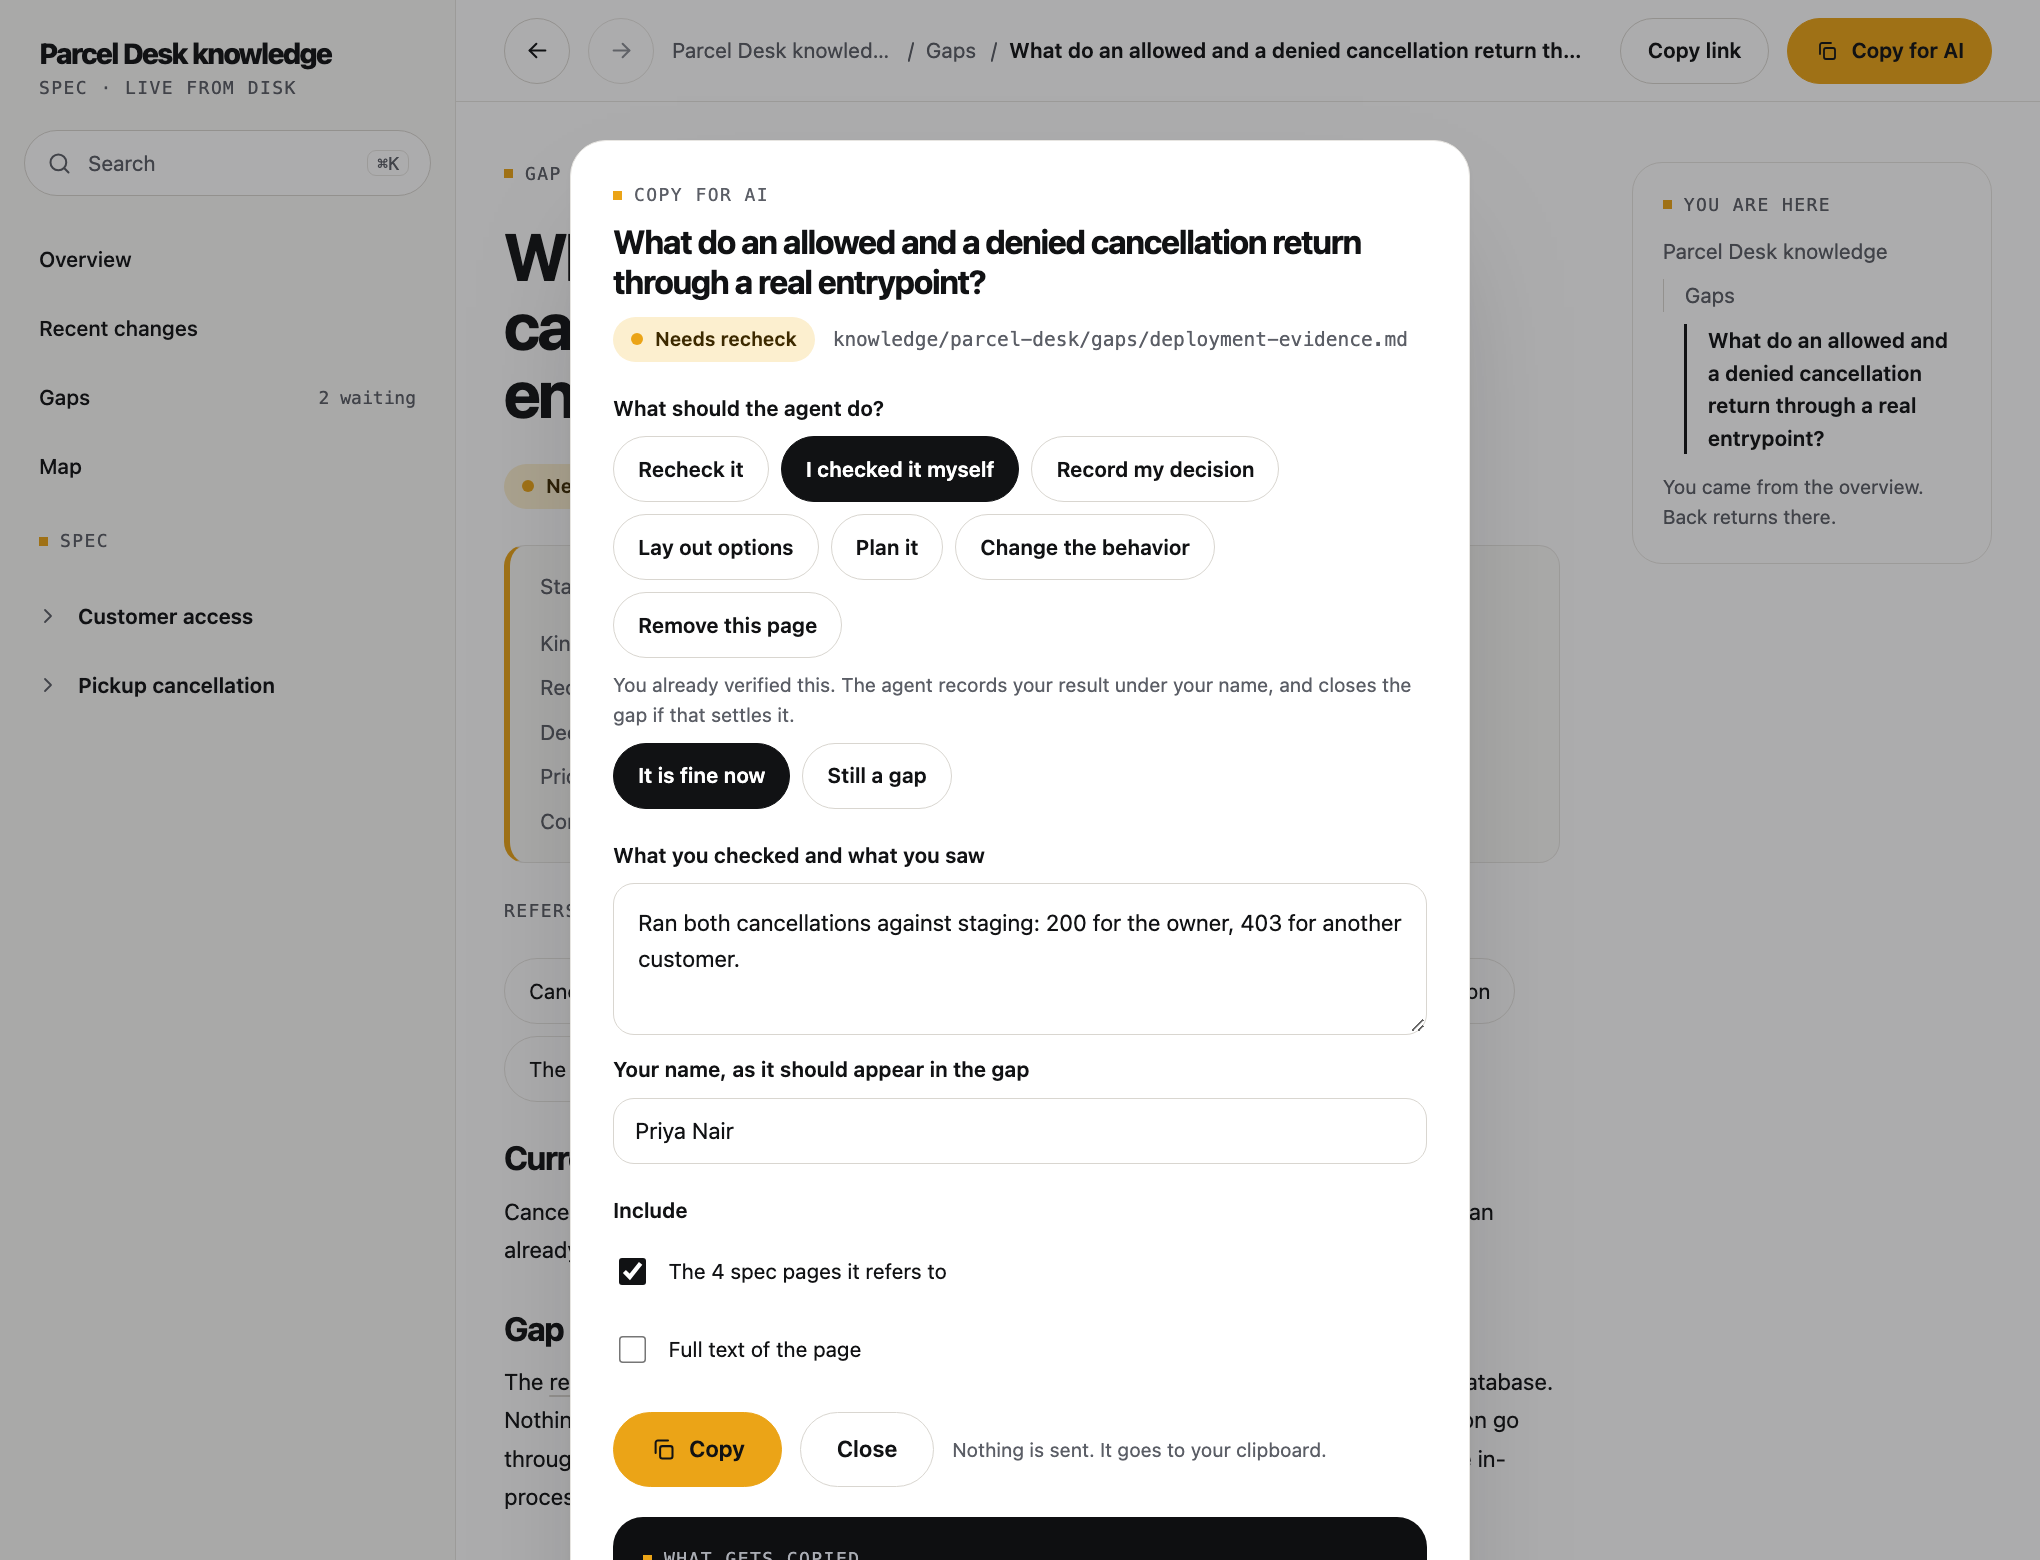
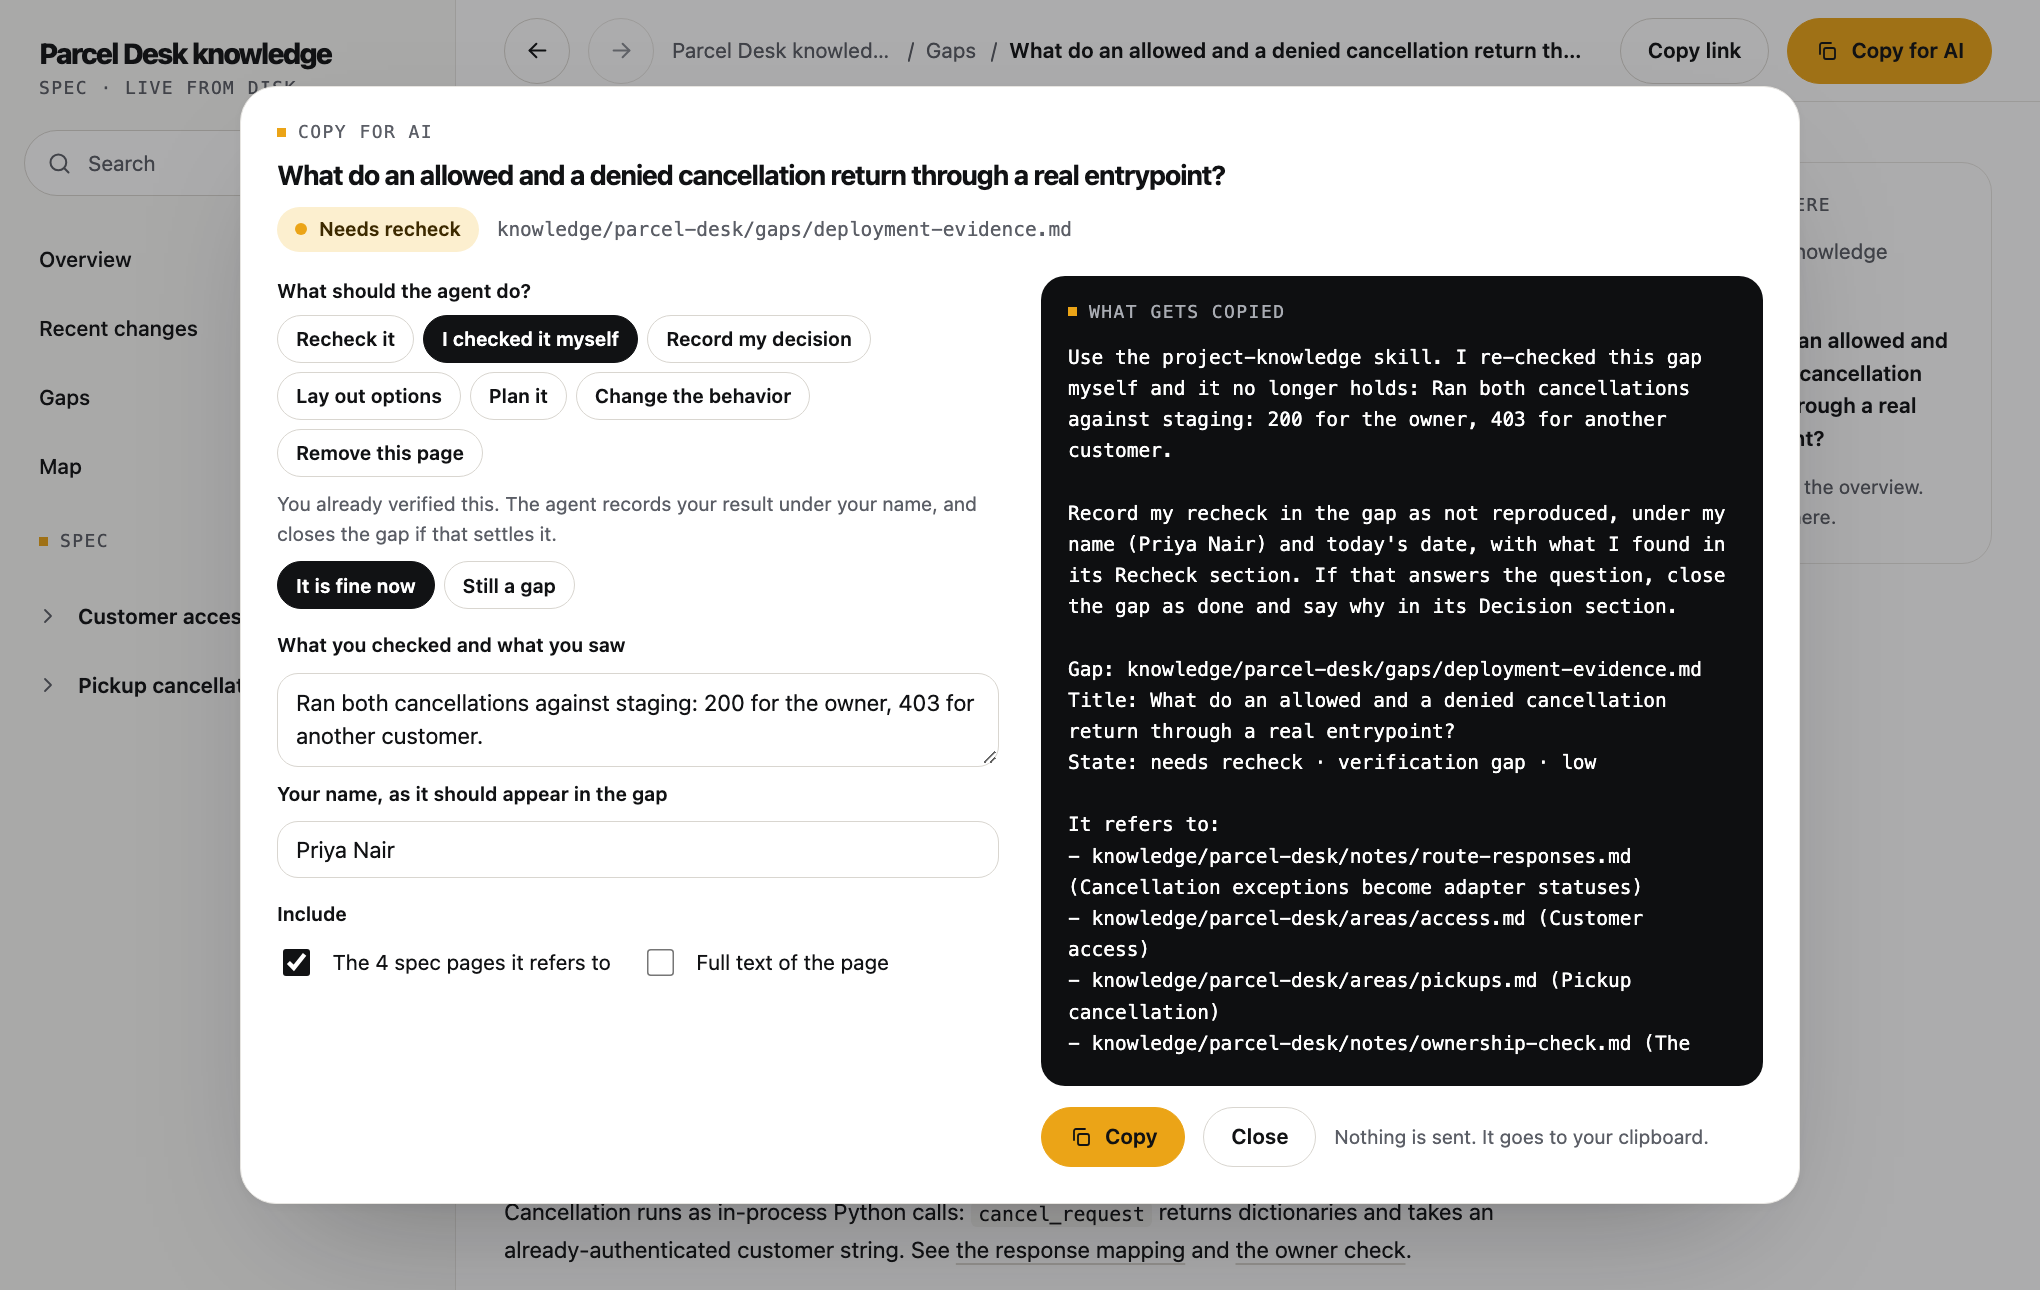
Fit the Copy for AI dialog in the window
The dialog had large buttons and needed scrolling, with the page scrolling
behind it as well. The choices are now small chips, the form is on the left
and the text that gets copied is on the right with the Copy button under
it, so everything is visible at once. Only the text block scrolls, and only
when the text is long. On a narrow screen the two columns stack.

While a dialog, the search or a cited file is open, the page behind it no
longer scrolls.

Version 0.4.2; the dialog screenshot is retaken.

diff --git a/skills/project-knowledge/assets/viewer.html b/skills/project-knowledge/assets/viewer.html
@@ -1170,11 +1170,70 @@
         font: 12px var(--mono);
         color: var(--muted);
       }
+      /* The dialog fits the window: what you choose on the left, what gets copied on the right. */
+      #copydlg {
+        align-items: center;
+        padding: 20px;
+        overflow: hidden;
+      }
       .copy-card {
-        width: min(600px, 100%);
-        padding: 28px;
-        gap: 20px;
-        overflow: visible;
+        width: min(1040px, 100%);
+        max-height: calc(100vh - 40px);
+        padding: 22px 24px 24px;
+        display: grid;
+        grid-template-columns: minmax(0, 1fr) minmax(0, 1fr);
+        gap: 16px 28px;
+        overflow: auto;
+      }
+      .copy-card > .stack {
+        grid-column: 1 / -1;
+        max-width: none;
+      }
+      .copy-card > .stack .h2 {
+        font-size: 18px;
+      }
+      .copy-controls,
+      .copy-side {
+        display: flex;
+        flex-direction: column;
+        gap: 14px;
+        min-width: 0;
+      }
+      .copy-side {
+        align-self: start;
+        position: sticky;
+        top: 0;
+      }
+      .copy-card .pillrow {
+        gap: 6px;
+      }
+      .copy-card .pill {
+        height: 32px;
+        padding: 0 12px;
+        font-size: 13px;
+      }
+      .copy-card fieldset.checks {
+        flex-direction: row;
+        flex-wrap: wrap;
+        gap: 0 20px;
+      }
+      .copy-card fieldset.checks legend {
+        width: 100%;
+        float: left;
+      }
+      .copy-card .check {
+        min-height: 32px;
+      }
+      .copy-card .btn {
+        height: 40px;
+      }
+      @media (max-width: 820px) {
+        .copy-card {
+          grid-template-columns: minmax(0, 1fr);
+        }
+        .copy-side {
+          position: static;
+        }
       }
       .copy-card fieldset {
         margin: 0;
@@ -1186,29 +1245,35 @@
       }
       .copy-card legend {
         padding: 0;
-        margin-bottom: 8px;
-        font-size: 14px;
+        margin-bottom: 6px;
+        font-size: 13px;
         font-weight: 600;
       }
       .field-label {
-        font-size: 14px;
+        font-size: 13px;
         font-weight: 600;
       }
       .copy-card input[type="text"] {
         width: 100%;
-        height: 44px;
-        padding: 0 14px;
+        height: 38px;
+        padding: 0 12px;
         border: 1px solid var(--line-strong);
         border-radius: 14px;
         background: var(--paper);
         font-size: 15px;
       }
       .copy-card textarea {
+        padding: 9px 12px;
         font-size: 15px;
-        margin-bottom: 4px;
+        line-height: 1.45;
       }
+      .copy-card .night {
+        padding: 16px 18px;
+        border-radius: 16px;
+      }
+      /* Tall enough to read, short enough that the dialog itself never needs a second scrollbar. */
       .copy-card .night pre {
-        max-height: 260px;
+        max-height: max(160px, calc(100vh - 380px));
       }
       .check {
         display: flex;
@@ -1743,12 +1808,14 @@
         function openFile(ref) {
           fileState = { ref, view: isMarkdownFile(ref.key) ? "rendered" : "source" };
           $("#filepane").hidden = false;
+          lockPage(true);
           renderFile();
           const close = $("#file-close");
           if (typeof close.focus === "function") close.focus();
         }
         function closeFile() {
           fileState = null;
+          lockPage(false);
           $("#filepane").hidden = true;
           $("#file-body").replaceChildren();
         }
@@ -2867,7 +2934,12 @@
           if (state.text) lines.push("", "Text of the page:", "", bodyOf(n).trim());
           return lines.join("\n");
         }
+        // While a dialog is open the page behind it stays put, so there is one scrollbar at most.
+        function lockPage(on) {
+          if (document.body && document.body.style) document.body.style.overflow = on ? "hidden" : "";
+        }
         function openCopy(n) {
+          lockPage(true);
           copyState = {
             node: n,
             intent: intentsFor(n)[0],
@@ -2882,6 +2954,7 @@
           renderCopy();
         }
         function closeCopy() {
+          lockPage(false);
           copyState = null;
           $("#copydlg").hidden = true;
           $("#copy-card").replaceChildren();
@@ -2940,7 +3013,7 @@
               });
               words.append(tag, input);
             };
-          field("copy-note", intent.ask, copyState.note, 3, (v) => {
+          field("copy-note", intent.ask, copyState.note, 2, (v) => {
             copyState.note = v;
           });
           if (intent.name)
@@ -2949,7 +3022,7 @@
               store.set("me", v.trim());
             });
 
-          const include = el("fieldset");
+          const include = el("fieldset", null, "checks");
           include.append(el("legend", "Include"));
           const check = (text, key) => {
             const label = el("label", null, "check"),
@@ -2967,13 +3040,17 @@
           check("Full text of the page", "text");
 
           const actions = el("div", null, "actions"),
-            copy = button(null, "btn accent large", () => copyText(pageBrief(n, copyState), "Copied. Paste it into your agent."));
+            copy = button(null, "btn accent", () => copyText(pageBrief(n, copyState), "Copied. Paste it into your agent."));
           copy.id = "copy-do";
-          copy.append(icon(ICON.copy, 18), document.createTextNode("Copy"));
-          actions.append(copy, button("Close", "btn large", closeCopy), el("span", "Nothing is sent. It goes to your clipboard.", "muted small"));
+          copy.append(icon(ICON.copy), document.createTextNode("Copy"));
+          actions.append(copy, button("Close", "btn", closeCopy), el("span", "Nothing is sent. It goes to your clipboard.", "muted small"));
           const preview = el("div", null, "night");
           preview.append(el("div", "What gets copied", "eyebrow"), pre);
-          card.append(top, want, words, include, actions, preview);
+          const controls = el("div", null, "copy-controls"),
+            side = el("div", null, "copy-side");
+          controls.append(want, words, include);
+          side.append(preview, actions);
+          card.append(top, controls, side);
         }
         $("#copydlg").addEventListener("click", (e) => {
           if (e.target === $("#copydlg")) closeCopy();
@@ -3089,10 +3166,12 @@
           const input = $("#palette-input");
           input.value = "";
           $("#palette").hidden = false;
+          lockPage(true);
           renderPalette();
           if (typeof input.focus === "function") input.focus();
         }
         function closePalette() {
+          lockPage(false);
           $("#palette").hidden = true;
         }
         $("#palette-input").addEventListener("input", () => {
